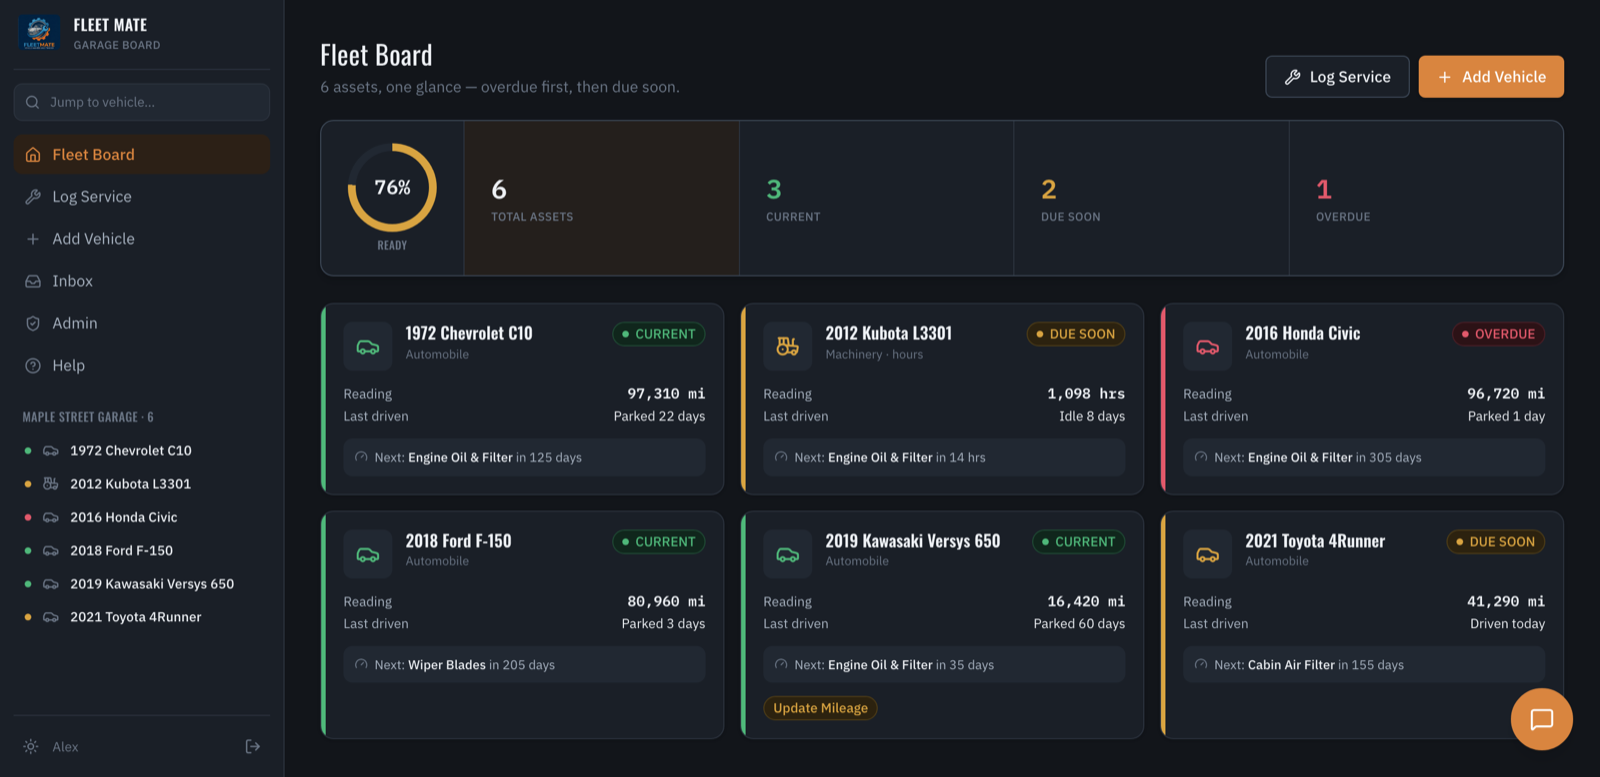
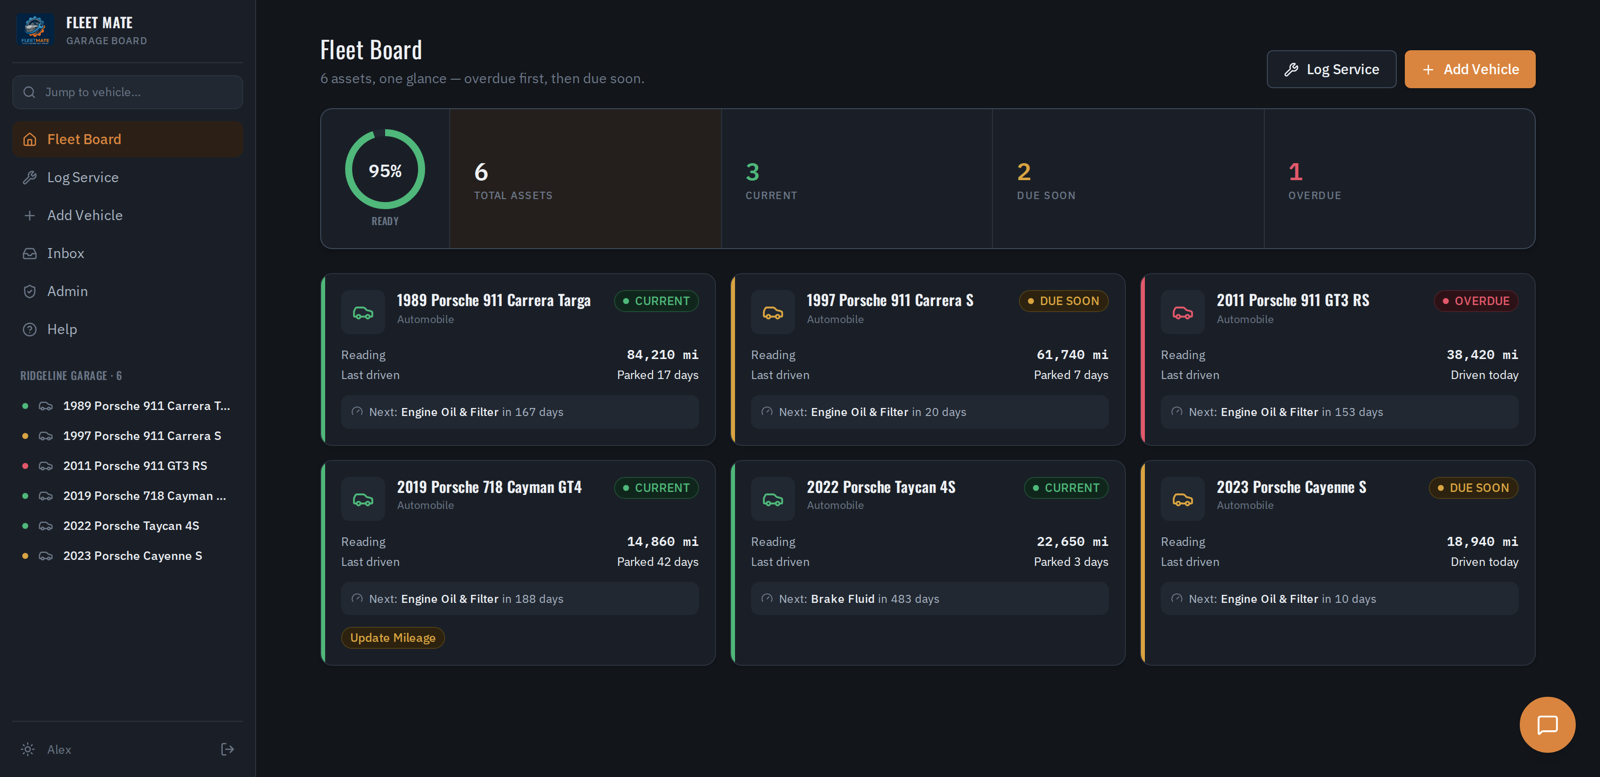
Fleet Mate: retake all website screenshots with a Porsche demo garage

diff --git a/fleet-mate/index.html b/fleet-mate/index.html
@@ -27,7 +27,7 @@
     <p class="lead">Keep every car, truck, motorcycle, and piece of equipment you own on schedule. Scan a receipt, an odometer, or a tire sidewall with your camera, and Fleet Mate turns it into a clean service history — then tells you what's due next.</p>
 
     <figure class="shot">
-      <img src="assets/web-fleet-board.png" alt="Fleet Mate's Fleet Board showing six vehicles with their readings, last-driven dates, and what's due next" width="1600" height="777">
+      <img src="assets/web-fleet-board.png" alt="Fleet Mate's Fleet Board showing a garage of six Porsches with their readings, last-driven dates, and what's due next" width="1600" height="777">
       <figcaption>The Fleet Board: every vehicle at a glance, overdue first, then due soon. (Shown with demo data.)</figcaption>
     </figure>
 
@@ -59,9 +59,9 @@
           <h3>Proof of work and vehicle history</h3>
           <p>Attach photos to service records as proof the work was done. Track when each vehicle was last driven — "Parked 42 days" — and record its story: past owners, restorations, and shows. It's the history a future buyer will want to see.</p>
           <p>Fleet Mate fills in what it can work out on its own — how and when you bought it, when it was built, the shops earlier owners used — and flags what's worth a closer look, like years with no records or an odometer reading that went backwards. Import a CARFAX or AutoCheck report and its owners, service visits, and inspections join the timeline, matched against the records you already have. <span class="muted">(On the web.)</span></p>
-          <p class="muted">Cost of ownership and history for a 2016 Civic, with an imported CARFAX report, on the web.</p>
+          <p class="muted">Cost of ownership and history for a 2011 911 GT3 RS, with an imported CARFAX report, on the web.</p>
         </div>
-        <img class="shot-side" src="assets/web-cost-history.png" alt="Cost of ownership for a 2016 Honda Civic, and its history timeline: owners and an auction sale from a CARFAX report, details Fleet Mate worked out, and two flags to look into, a reported damage and an odometer reading that went down" width="688" height="2290" loading="lazy">
+        <img class="shot-side" src="assets/web-cost-history.png" alt="Cost of ownership for a 2011 Porsche 911 GT3 RS, and its history timeline: owners and an auction sale from a CARFAX report, details Fleet Mate worked out, and two flags to look into, a reported damage and an odometer reading that went down" width="688" height="2218" loading="lazy">
       </div>
 
       <h3>Parts on hand, across the garage</h3>
@@ -81,12 +81,12 @@
     </div>
 
     <figure class="shot">
-      <img src="assets/web-translation.png" alt="A German radio manual page with a diagram of the radio's controls, shown beside its English translation" width="1600" height="928" loading="lazy">
-      <figcaption>A German radio manual, read into English page by page and shown beside the original. (Shown with demo data.)</figcaption>
+      <img src="assets/web-translation.png" alt="A German manual page for a classic 911's radio, with a diagram of its controls, shown beside its English translation" width="1600" height="835" loading="lazy">
+      <figcaption>A classic 911's German radio manual, read into English page by page and shown beside the original. (Shown with demo data.)</figcaption>
     </figure>
 
     <figure class="shot">
-      <img src="assets/web-vehicle.png" alt="A vehicle's detail page with readiness score, items needing attention, the Fleet Mate AI assistant, and upcoming maintenance" width="1600" height="866" loading="lazy">
+      <img src="assets/web-vehicle.png" alt="A 2023 Porsche Cayenne S detail page with readiness score, items needing attention, the Fleet Mate AI assistant, and upcoming maintenance" width="1600" height="866" loading="lazy">
       <figcaption>Each vehicle gets a status report: what needs attention, a readiness score, upcoming work, and the assistant, ready to answer questions.</figcaption>
     </figure>
 
